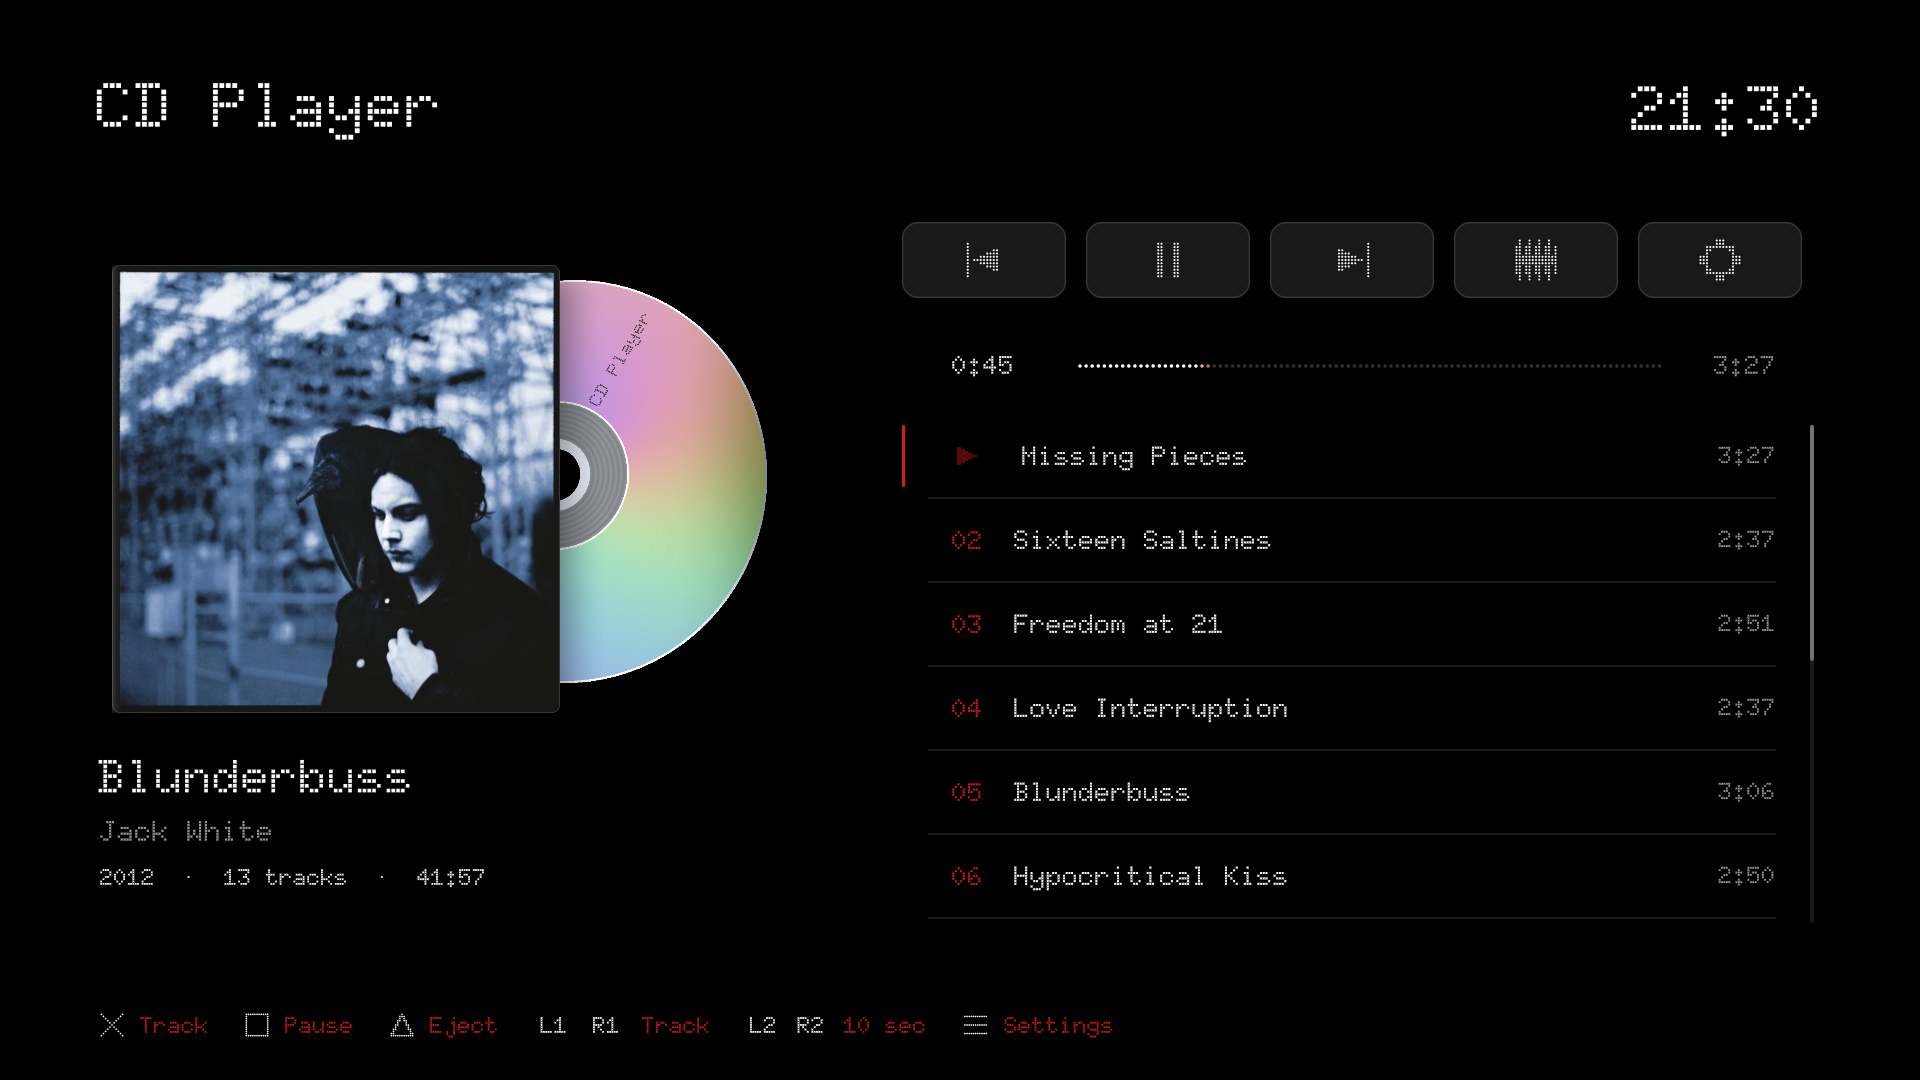
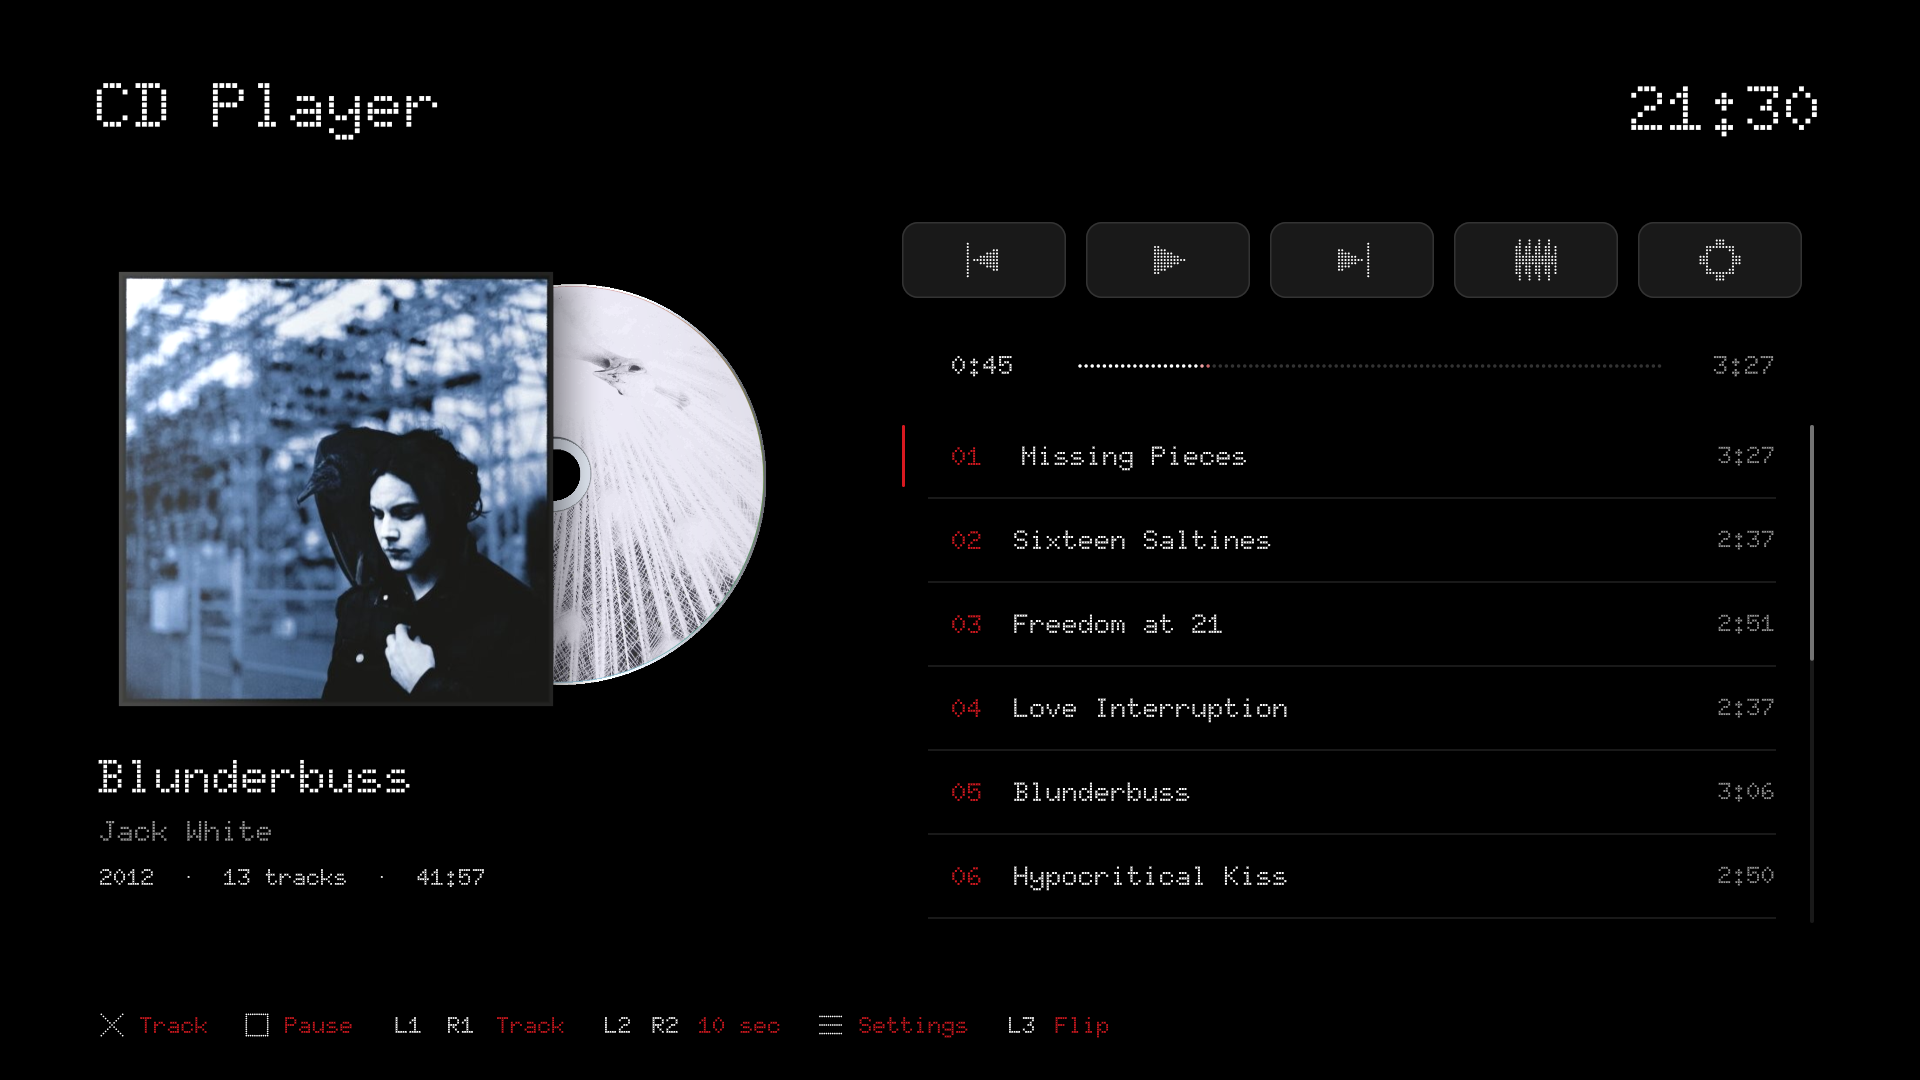
Prepare CD Player 1.1.1 release notes and listening gallery

diff --git a/CHANGELOG.md b/CHANGELOG.md
@@ -1,0 +1,34 @@
+# Changelog
+
+## 1.1.1
+
+More ways to enjoy your music, with lyrics, finer sound controls and artwork that makes each CD feel like your own.
+
+### Added
+
+- Lyrics in fullscreen. Press R3 to switch between lyrics and the visualizer. Timed phrases follow the music and scroll into the centre of the screen when available.
+- Speaker setup, with separate levels for all eight outputs: front left and right, centre, surround left and right, side left and right, and subwoofer. The front pair keeps its original level unless you adjust it.
+- Master volume control with the right stick, from any screen.
+- Forty named accent colours, applied instantly to the interface and visualizers and remembered between launches.
+- Printed CD artwork, back covers and spines for editions that have them online. Each image fades in when ready; missing artwork stays blank.
+- A reflective 3D album case. Press L3 to turn it over and see the back, or press it again to return to the front.
+
+### Fixed
+
+- Music keeps playing when the DualSense turns off or disconnects.
+- Changing the volume leaves open settings and album panels in place.
+- Lyrics retry temporary server errors automatically. Reopening lyrics that are already loaded no longer flashes a loading message.
+- Circle returns directly from lyrics to the album page. Reopening fullscreen restores your last lyrics or visualizer choice.
+- Two-digit speaker levels remain fully readable.
+- CD artwork fits the printed circle more closely, without adding the scan's margins to the edge of the 3D disc.
+
+### Updating
+
+Close CD Player before replacing the PPSA98427 folder with the one in the release ZIP. Your saved settings and artwork cache are kept separately and carry over.
+
+## 1.1.0
+
+- The track list brings the playing track into view when it changes, while leaving you free to browse afterwards.
+- Hiding the Eject button also hides its control hint.
+- OLED mode hides fullscreen labels, gently moves the visualizer and blanks the screen after a minute of inactivity while playback is stopped.
+- Smoother visualizer timing and corrected character support for terminal-style effects.

diff --git a/README.md b/README.md
@@ -15,7 +15,7 @@ Put a CD in, settle into your favourite chair, and listen.
 Designed by **Andrea Sgarro**.
 
 [Download the latest release](https://github.com/LoZazaMastro/CD-Player/releases/latest)
-| [Installation](#installation) | [Controls](#controls) | [Build from source](docs/BUILDING.md)
+| [What's new](CHANGELOG.md) | [Installation](#installation) | [Controls](#controls) | [Build from source](docs/BUILDING.md)
 
 ![Blunderbuss by Jack White in CD Player](docs/screenshots/album.png)
 
@@ -52,6 +52,10 @@ after two seconds without input, leaving the music, the picture and the clock.
 | Album notes | Five-button layout |
 | --- | --- |
 | ![Album notes for Blunderbuss](docs/screenshots/album-info.png) | ![Transport with Eject hidden](docs/screenshots/album-no-eject.png) |
+
+| The back of the case | Individual speaker levels |
+| --- | --- |
+| ![Blunderbuss back cover and printed disc](docs/screenshots/album-back.png) | ![Eight individual speaker controls](docs/screenshots/speaker-setup.png) |
 
 ![Fullscreen visualizer with Jack White metadata](docs/screenshots/visualizer.png)
 
